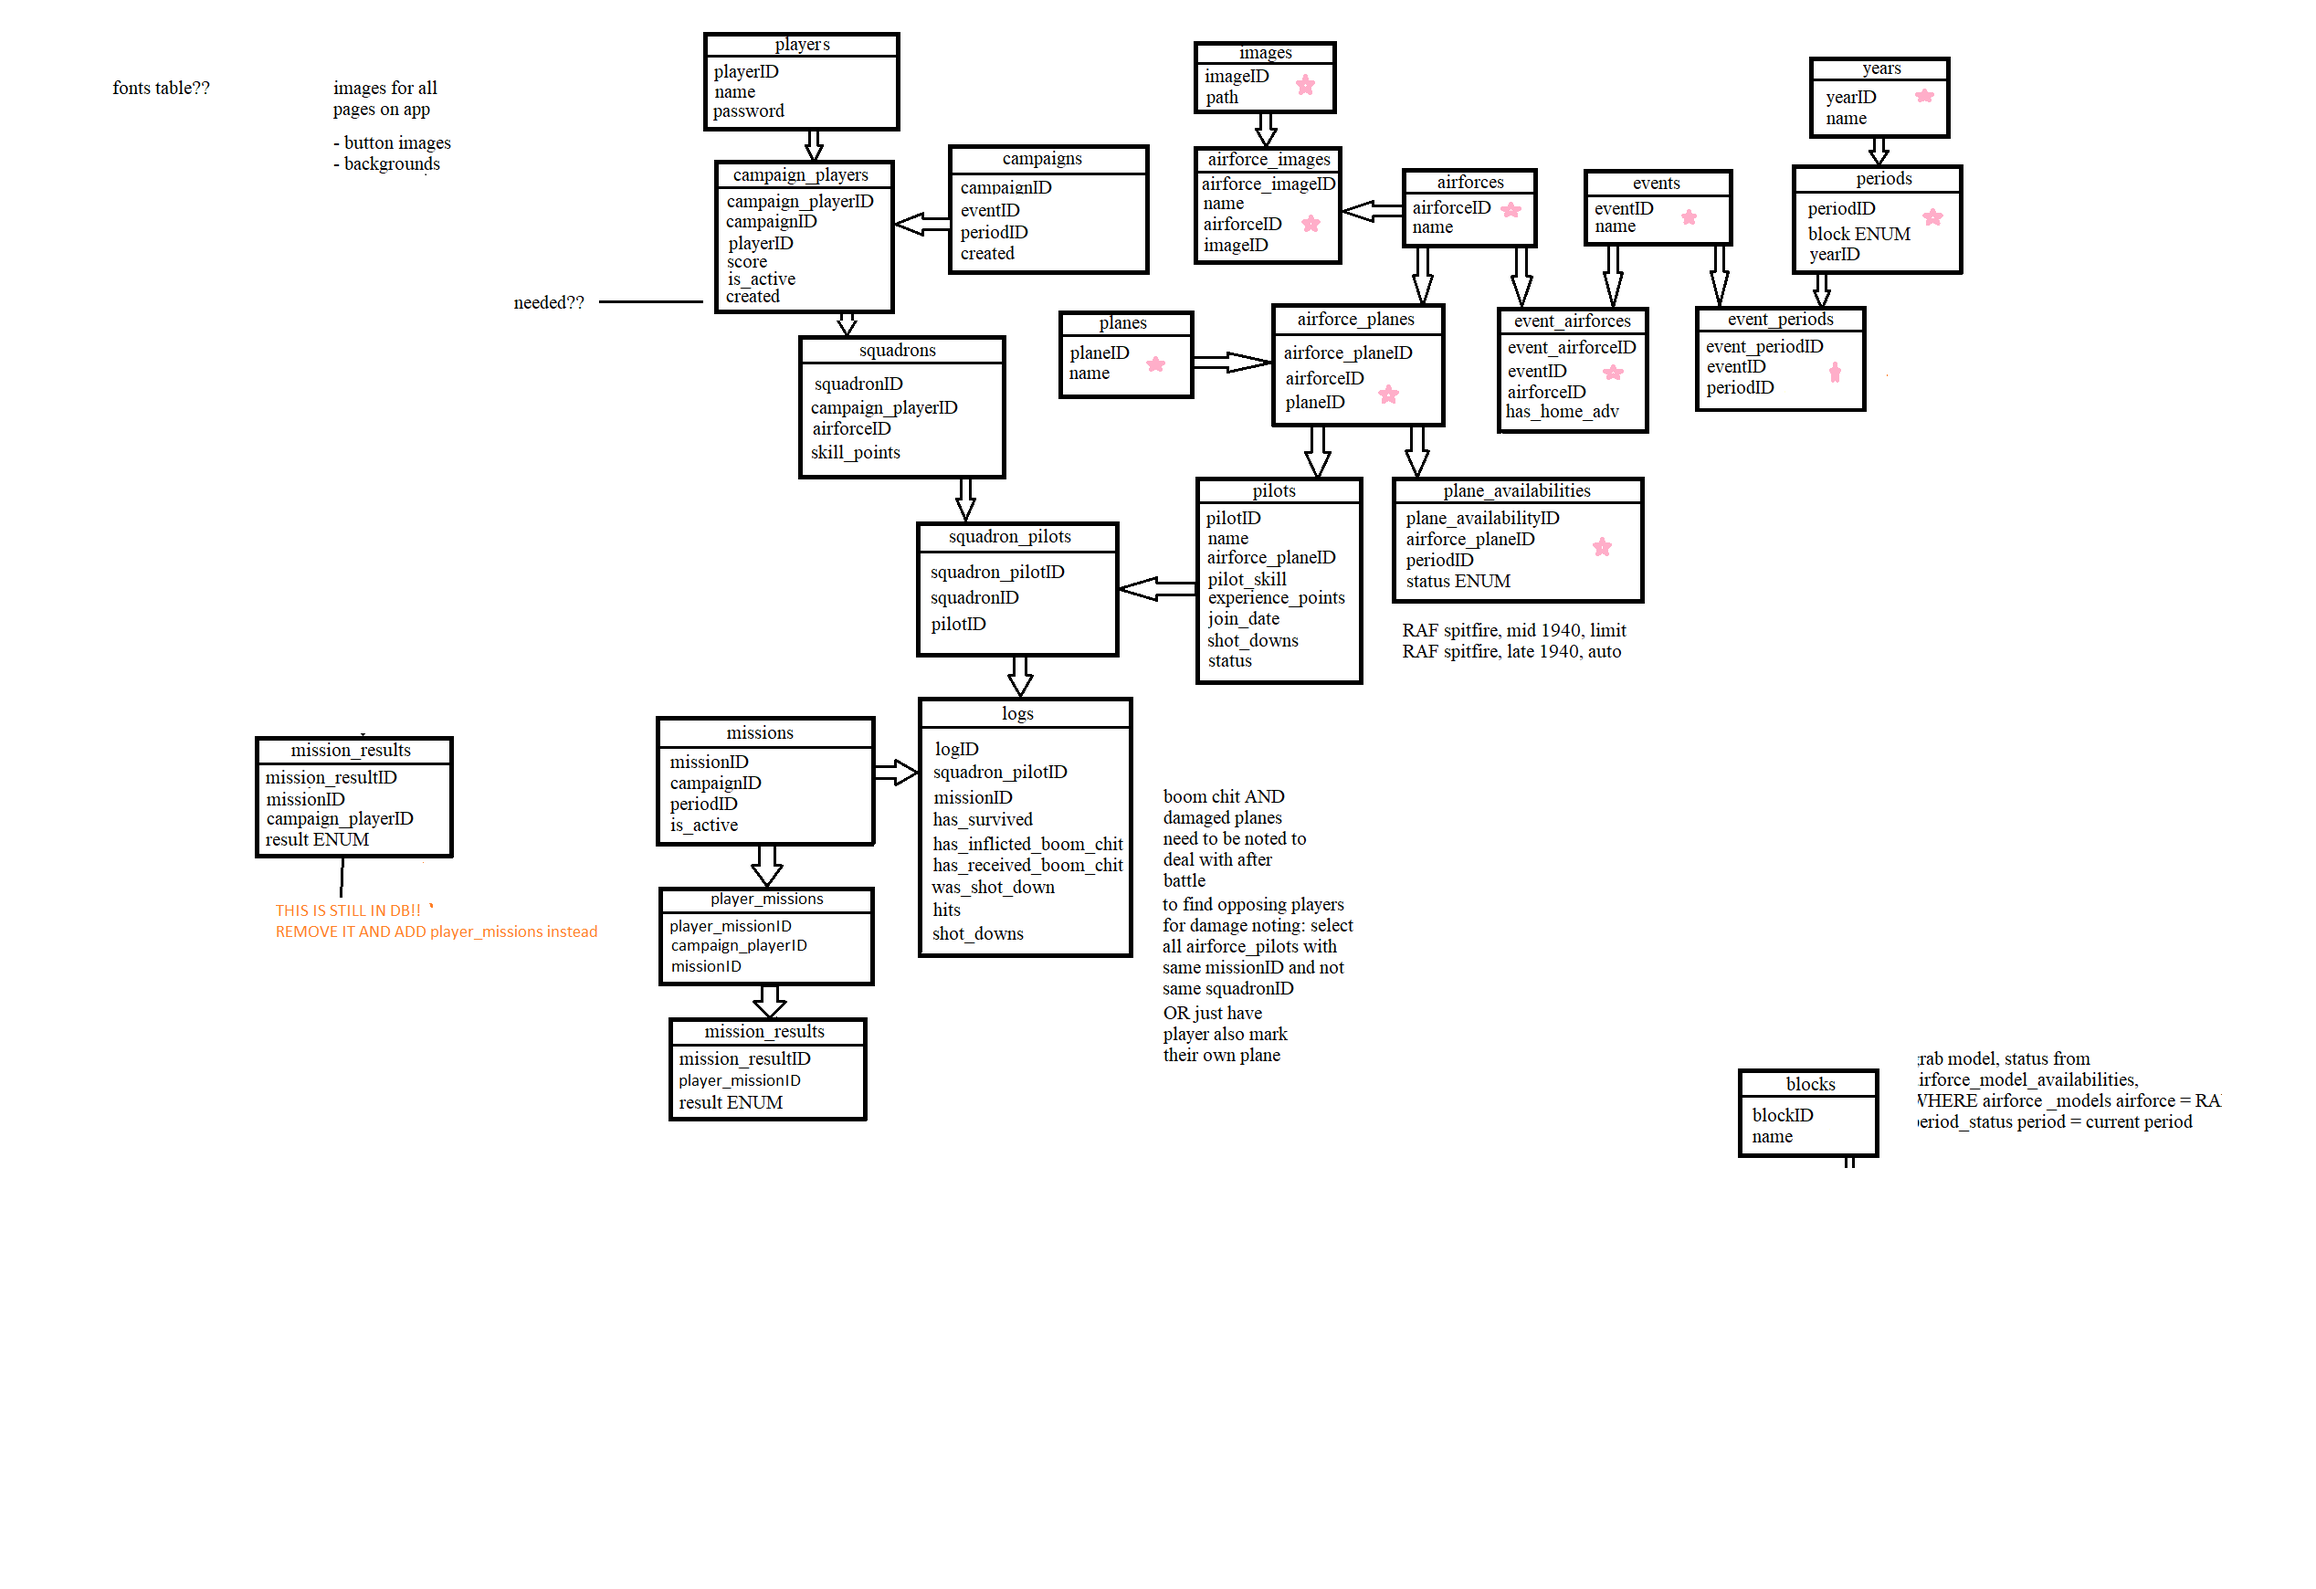
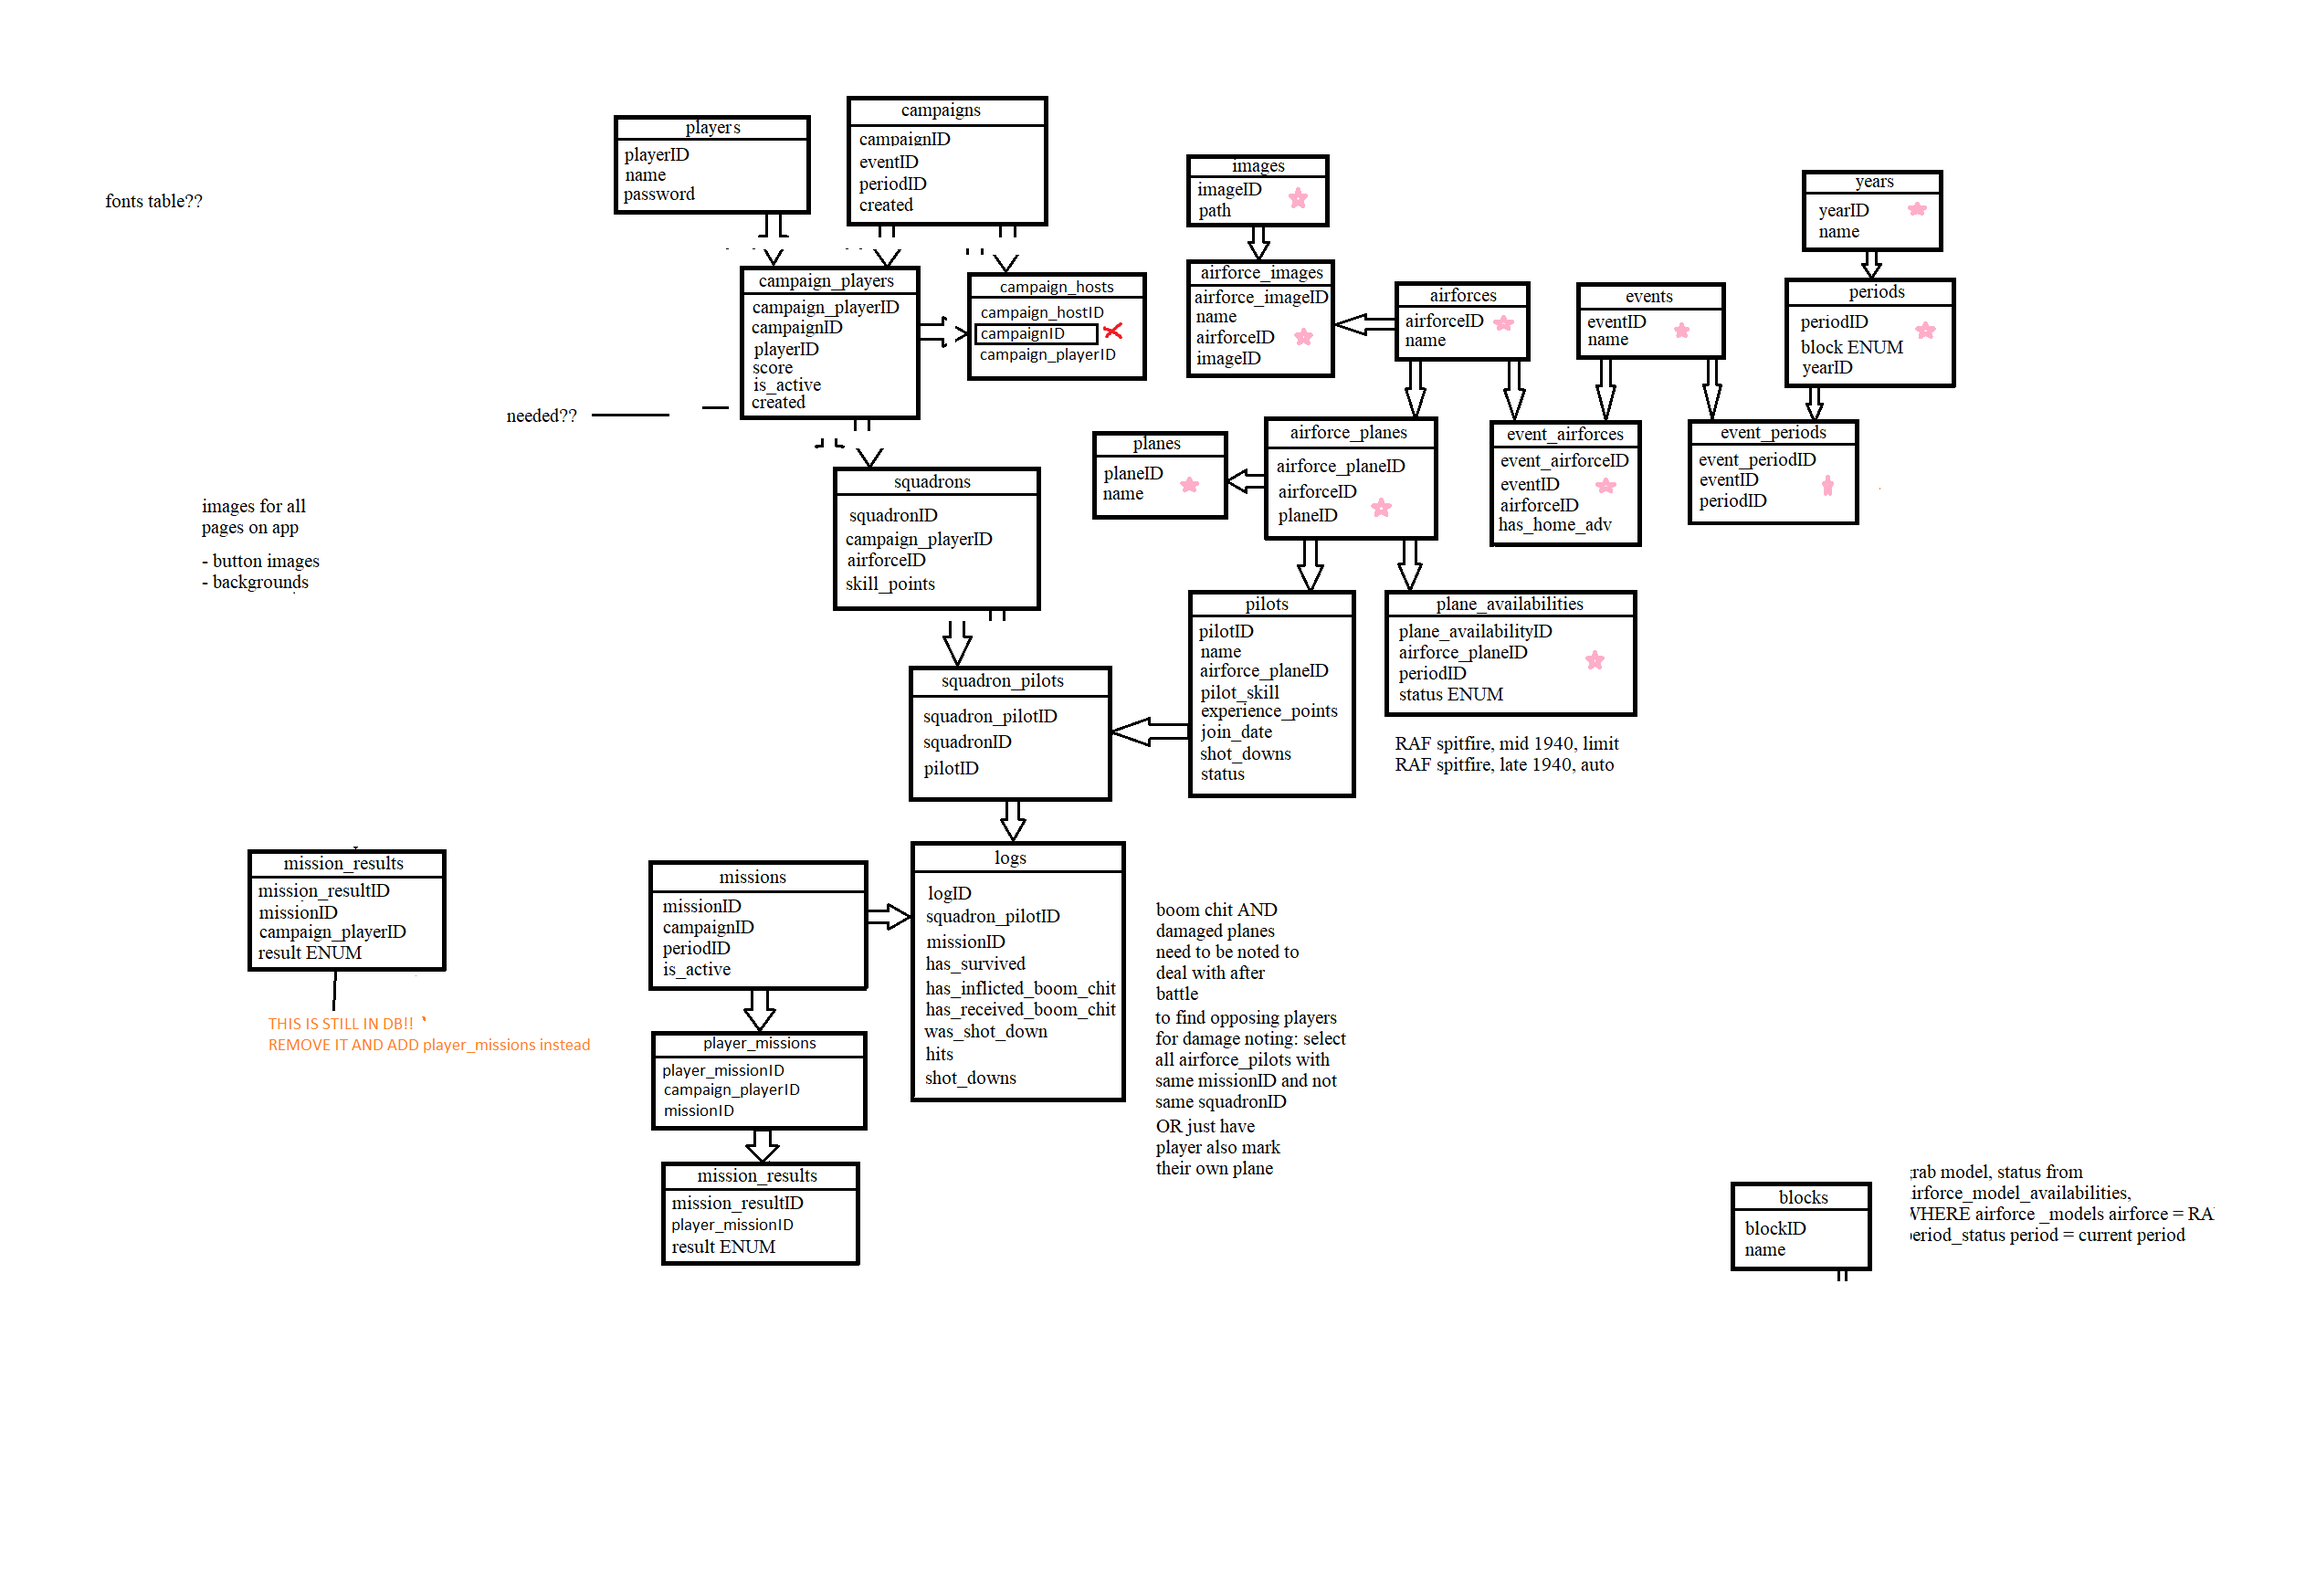
campaign_hosts

diff --git a/Workspace/CampaignTracker/src/controller/CampaignsController.java b/Workspace/CampaignTracker/src/controller/CampaignsController.java
@@ -44,19 +44,19 @@ public class CampaignsController implements Frameable, Rootable {
     	setCampaigns(); //populate campaigns list
     	setToggleListener(); //add change listener to toggle group
     	//set btn action:
-    	newCampaignBtn.setOnAction(event -> Frameable.changeView(root, eventsCtrlr));
+    	////newCampaignBtn.setOnAction(event -> Frameable.changeView(root, eventsCtrlr));
     	
-    	//newCampaignBtn.setOnAction(event -> 
-    	//	Frameable.changeView(root, new EventsController())); 
+    	newCampaignBtn.setOnAction(event -> 
+    		Frameable.changeView(root, new EventsController(this))); 
     	
     	
     }
     
     //observable list of campaigns:
-    private final ObservableList<Campaign>campaigns = FXCollections.observableArrayList();
+    private final ObservableList<Campaign>observCampaigns = FXCollections.observableArrayList();
     
     //filtered list for filtering campaigns:
-    private final FilteredList<Campaign> filteredCampaigns = new FilteredList<>(campaigns, str -> true);
+    private final FilteredList<Campaign> filteredCampaigns = new FilteredList<>(observCampaigns, str->true);
     
     /**===================imaginary db data: =================================*/
     public static List<Campaign>cellItemsDB = new ArrayList<Campaign>();
@@ -66,13 +66,13 @@ public class CampaignsController implements Frameable, Rootable {
 	private Parent root; 
 	
 	//controllers:
-	private final EventsController eventsCtrlr; ////////????????? needed??? 
+	private final EventsController eventsCtrlr; ////////????????? needed??? +++++++
 	private A1 a1;
 	
 	//constructor:
 	CampaignsController() {
 		setRoot(); //set root node
-		this.eventsCtrlr = new EventsController(this); ////////????????? needed??? 
+		this.eventsCtrlr = new EventsController(this); ////////????????? needed??? +++++++++
 		 a1 = new A1();
 	}
 
@@ -92,11 +92,11 @@ public class CampaignsController implements Frameable, Rootable {
     	
     	
 		//add campaigns from db to campaigns:
-		campaigns.addAll(cellItemsDB);
+    	observCampaigns.addAll(cellItemsDB);
 		
 		/** ========================================================*/
 		//add campaigns to listView:
-		campaignsLV.setItems(campaigns); 
+		campaignsLV.setItems(observCampaigns); 
 		//set listView cellFactory to create CampaignCellControllers:
 		campaignsLV.setCellFactory(CampaignCellController -> new CampaignCellController(this));
 	}
@@ -123,14 +123,16 @@ public class CampaignsController implements Frameable, Rootable {
 					filteredCampaigns.setPredicate(str -> str.getName().contains(notPlayingRB.getText()));
 					campaignsLV.setItems(filteredCampaigns); //set listView to filteredList
 				}else {
-					campaignsLV.setItems(campaigns);  //set listView to non-filtered campaigns list 
+					campaignsLV.setItems(observCampaigns);  //set listView to non-filtered campaigns list 
 				}
 			} 
 		});
 	}
 	
-	void createCampaign(/* event info*/) {
-		//////add to db
+	void createCampaign(String eventName) {
+		//add campaign to db:
+		database.InsertCampaign.insert(LoginController.getPlayerId(), eventName);
+		
 		//add to campaigns obsrv list
 		//then:
 		//campaignsLV.setItems(campaigns); 

diff --git a/Workspace/CampaignTracker/src/controller/EventsController.java b/Workspace/CampaignTracker/src/controller/EventsController.java
@@ -21,6 +21,8 @@ import javafx.beans.value.ObservableValue;
 import javafx.collections.FXCollections;
 import javafx.collections.ObservableList;
 import javafx.fxml.FXML;
+import javafx.scene.Group;
+import javafx.scene.Node;
 import javafx.scene.Parent;
 import javafx.scene.control.Label;
 import javafx.scene.layout.AnchorPane;
@@ -50,7 +52,7 @@ public class EventsController implements Frameable, Rootable {
     @FXML private JFXListView<AirForce> airForcesLV;
 
     @FXML
-    private StackPane testStack2;
+    private StackPane testStack2; //+++++++++++++test stack (which rootAP ids wrapped in for displaying JFXDialog) +++++++
     
     @FXML
     void initialize() {
@@ -60,25 +62,30 @@ public class EventsController implements Frameable, Rootable {
     	
     	selectEventBtn.setOnAction(event -> {
     		
-    		//inform user they're going to create a new campaign with this event
-    		//if they're cool: create new campaign with this event in campaign ctrlr
+    		//inform user they're going to create a new campaign with this event:
+    		/////testJFXDialog();
+    		//if they're cool (click ok button instead of cancel/x button): create new campaign with this event in campaign ctrlr:
+    		
+    		campaignsCtrlr.createCampaign(eventNameLbl.getText());
+    		
     		//then navigate user to that campaign page
     		
-    		//Frameable.changeView(root, createSquadronCtrlr));
+    		//Frameable.changeView(root, campaignCtrlr));
     		
     		//////https://stackoverflow.com/questions/50933321/how-to-show-a-dialog-with-jfoenix-javafx
     		
     		//more detailed: https://stackoverflow.com/questions/38830883/how-to-create-a-dialog-using-jfxdialog-of-jfoenix-in-javafx
-    		show();
+    		
     	});
     	
     }
     
     //----------------------------------------
-    public void show() {
+    public void testJFXDialog() {
         JFXDialogLayout layout = new JFXDialogLayout();
         layout.setHeading(new Label("Header"));
-        layout.setBody(new Label("Lorem ipsum"));
+        layout.setBody( /*new Label("Header")*/ new JFXButton("yo"));
+       
 
         JFXDialog dialog = new JFXDialog(testStack2, layout, JFXDialog.DialogTransition.CENTER);
         dialog.show();

diff --git a/Workspace/CampaignTracker/src/database/InsertCampaign.java b/Workspace/CampaignTracker/src/database/InsertCampaign.java
@@ -1,0 +1,30 @@
+package database;
+
+import java.sql.Connection;
+
+public interface InsertCampaign {
+	
+	static int insert(int playerId, String eventName) {
+			
+		int statementResult = 0;
+		try (Connection connection = ConnectDB.getConnection(); //get a connection to the db
+			/*	
+			 //create statement:
+			 CallableStatement callableStatement = connection.prepareCall(
+					"{CALL insert_player(?,?,?)}");*/) {
+			
+			/* callableStatement.setString(1, name); //set input with name
+	         callableStatement.setString(2, pswrd); //set input with password
+	         callableStatement.registerOutParameter(3, Types.INTEGER); //register the out param (playerId)
+	         callableStatement.execute(); //execute statement
+	         
+	         //holds the value of inserted player id (or 0 if attempted to insert pre-existing name or password)
+	         statementResult = callableStatement.getInt(3); 
+			*/
+		}catch(Exception e) { e.printStackTrace(); }
+		
+		//return result:
+		return statementResult; 
+	}
+
+}

diff --git a/Workspace/CampaignTracker/src/database/ConnectDB.java b/Workspace/CampaignTracker/src/database/ConnectDB.java
@@ -7,7 +7,7 @@ import java.util.Properties;
 
 /** look into http://www.jasypt.org/ for encryption +++++++++++++++*/
 
-public class ConnectDB {
+public final class ConnectDB {
 	
 	private Connection connection = null; //holds an established connection
 	
@@ -29,5 +29,5 @@ public class ConnectDB {
 	}
 	
 	//return a newly established connection:
-	protected static Connection getConnection() { return new ConnectDB().connection; }
+	static Connection getConnection() { return new ConnectDB().connection; }
 }
